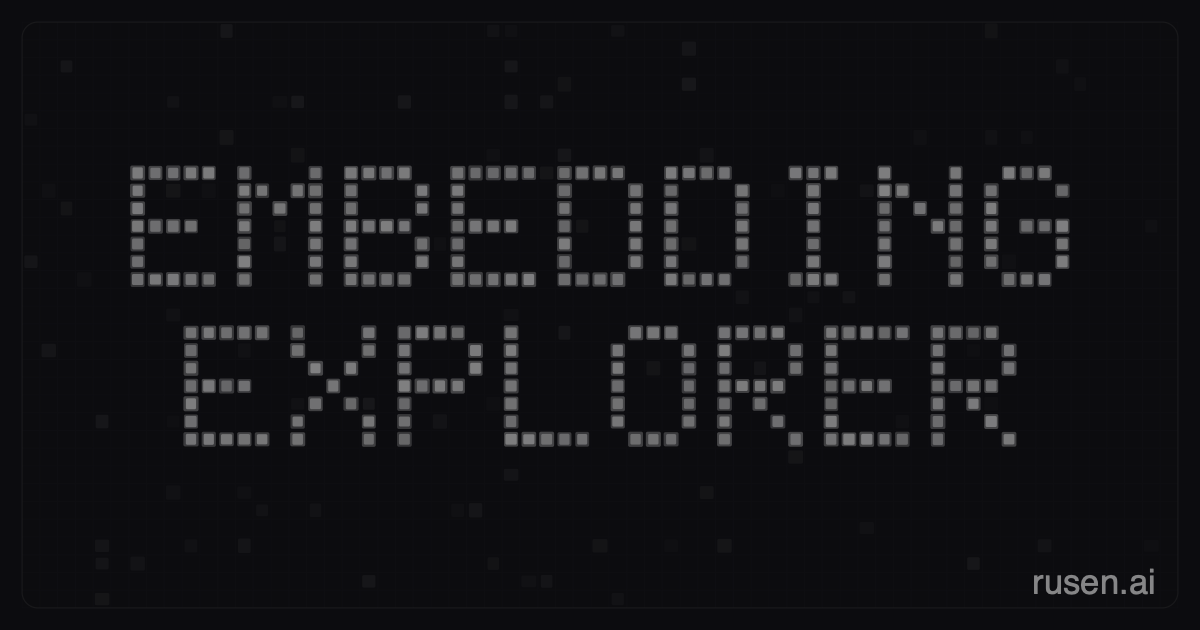
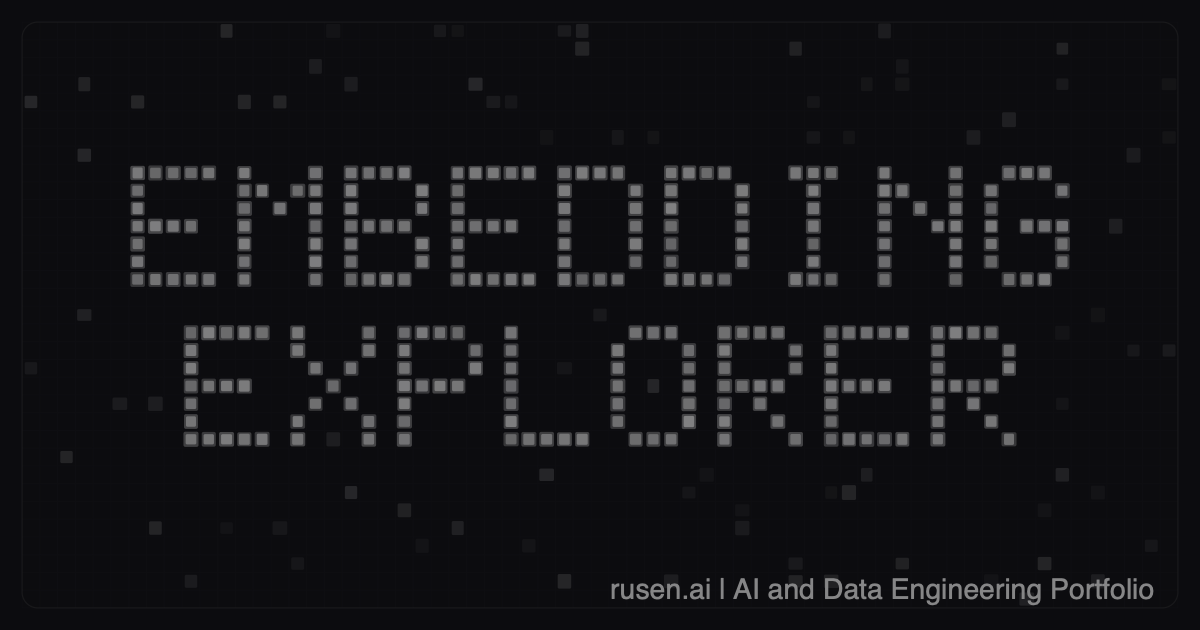
Refresh project social card assets

diff --git a/scripts/social-create.ts b/scripts/social-create.ts
@@ -1387,8 +1387,8 @@ function computeGridMetrics(
   const visibleCharacterCount = getVisibleCharacterCount(options.word);
   const lengthFactor = clamp((visibleCharacterCount - 3) / 9, 0, 1);
   const cellSizeScale = lerp(1, 0.72, lengthFactor);
-  const maxLitOpacity = lerp(0.1, 0.055, lengthFactor);
-  const litCellProbability = lerp(0.1, 0.045, lengthFactor);
+  const maxLitOpacity = lerp(0.24, 0.132, lengthFactor);
+  const litCellProbability = lerp(0.15, 0.0675, lengthFactor);
   const cellSize = clamp(
     Math.min(innerWidth / 46, innerHeight / 24) * cellSizeScale,
     12,
@@ -1423,7 +1423,7 @@ function renderBackgroundGrid(options: SocialCreateOptions, inset: number): stri
       const y = inset + row * metrics.actualCellHeight;
       const paddingX = metrics.actualCellWidth * (0.08 + random() * 0.1);
       const paddingY = metrics.actualCellHeight * (0.08 + random() * 0.1);
-      const opacity = lerp(0.015, metrics.maxLitOpacity, Math.pow(random(), 1.4));
+      const opacity = lerp(0.03, metrics.maxLitOpacity, Math.pow(random(), 1.4));
       litCells += `<rect x="${formatFloat(x + paddingX)}" y="${formatFloat(
         y + paddingY,
       )}" width="${formatFloat(metrics.actualCellWidth - paddingX * 2)}" height="${formatFloat(
@@ -1464,9 +1464,29 @@ function renderTileWordGrid(model: SocialGraphModel, inset: number): string {
   const wordCells = new Set(
     layout.cells.map((cell) => `${cell.col + startCol},${cell.row + startRow}`),
   );
+  const exclusionRadius = 1.75;
+  const exclusionCells = new Set<string>();
   let gridPath = "";
   let backgroundCells = "";
   let wordCellRects = "";
+
+  for (const cell of layout.cells) {
+    const baseCol = cell.col + startCol;
+    const baseRow = cell.row + startRow;
+    const minCol = Math.floor(baseCol - exclusionRadius);
+    const maxCol = Math.ceil(baseCol + exclusionRadius);
+    const minRow = Math.floor(baseRow - exclusionRadius);
+    const maxRow = Math.ceil(baseRow + exclusionRadius);
+
+    for (let row = minRow; row <= maxRow; row += 1) {
+      for (let col = minCol; col <= maxCol; col += 1) {
+        if (Math.hypot(col - baseCol, row - baseRow) > exclusionRadius) {
+          continue;
+        }
+        exclusionCells.add(`${col},${row}`);
+      }
+    }
+  }
 
   for (let row = 0; row < metrics.rows; row += 1) {
     for (let col = 0; col < metrics.cols; col += 1) {
@@ -1499,12 +1519,15 @@ function renderTileWordGrid(model: SocialGraphModel, inset: number): string {
         continue;
       }
 
+      if (exclusionCells.has(key)) {
+        continue;
+      }
       if (random() >= metrics.litCellProbability) {
         continue;
       }
       const paddingX = metrics.actualCellWidth * (0.08 + random() * 0.1);
       const paddingY = metrics.actualCellHeight * (0.08 + random() * 0.1);
-      const opacity = lerp(0.015, metrics.maxLitOpacity, Math.pow(random(), 1.4));
+      const opacity = lerp(0.03, metrics.maxLitOpacity, Math.pow(random(), 1.4));
       backgroundCells += `<rect x="${formatFloat(x + paddingX)}" y="${formatFloat(
         y + paddingY,
       )}" width="${formatFloat(metrics.actualCellWidth - paddingX * 2)}" height="${formatFloat(
@@ -1533,14 +1556,17 @@ function renderTileWordGrid(model: SocialGraphModel, inset: number): string {
 }
 
 function renderTrademark(options: SocialCreateOptions, inset: number): string {
-  const fontSize = clamp(Math.min(options.width, options.height) * 0.055, 30, 46);
+  const footerText = "rusen.ai | AI and Data Engineering Portfolio";
+  const sharedSize = clamp(Math.min(options.width, options.height) * 0.045, 24, 32);
   const fillColor = mixHexColors(options.background, "#ffffff", 0.5);
-  const x = options.width - inset * 2.2;
-  const y = options.height - inset * 1.65;
+  const rightEdge = options.width - inset * 2.2;
+  const baselineY = options.height - inset * 1.45;
 
-  return `<text x="${formatFloat(x)}" y="${formatFloat(y)}" text-anchor="end" font-family="ui-monospace, SFMono-Regular, Menlo, Monaco, Consolas, Liberation Mono, monospace" font-size="${formatFloat(
-    fontSize,
-  )}" letter-spacing="0.08em" fill="${fillColor}" fill-opacity="0.4">rusen.ai</text>`;
+  return `<text x="${formatFloat(rightEdge)}" y="${formatFloat(
+    baselineY,
+  )}" text-anchor="end" font-family="ui-monospace, SFMono-Regular, Menlo, Monaco, Consolas, Liberation Mono, monospace" font-size="${formatFloat(
+    sharedSize,
+  )}" letter-spacing="0.02em" fill="${fillColor}" fill-opacity="0.4">${footerText}</text>`;
 }
 
 function frameInset(width: number, height: number): number {
